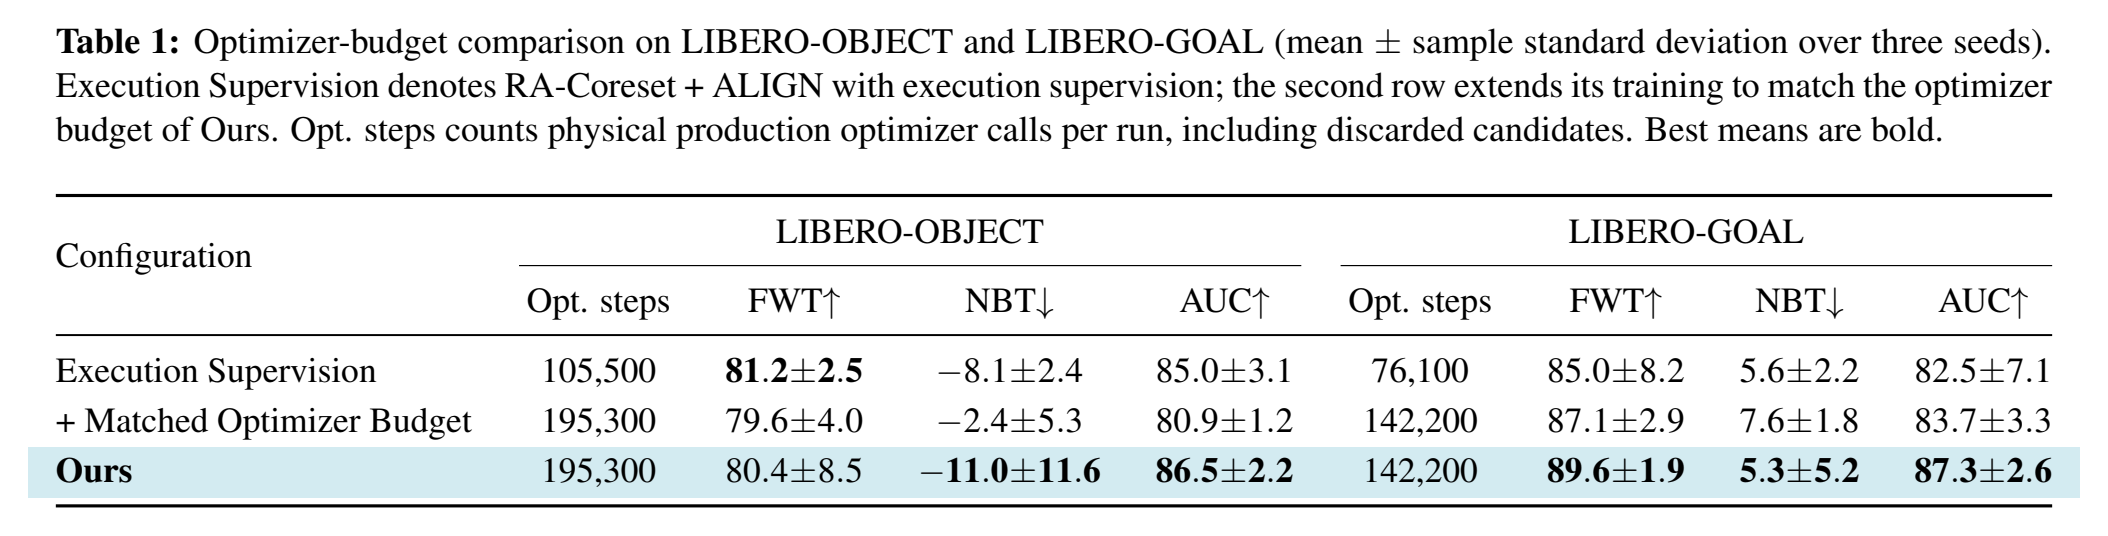
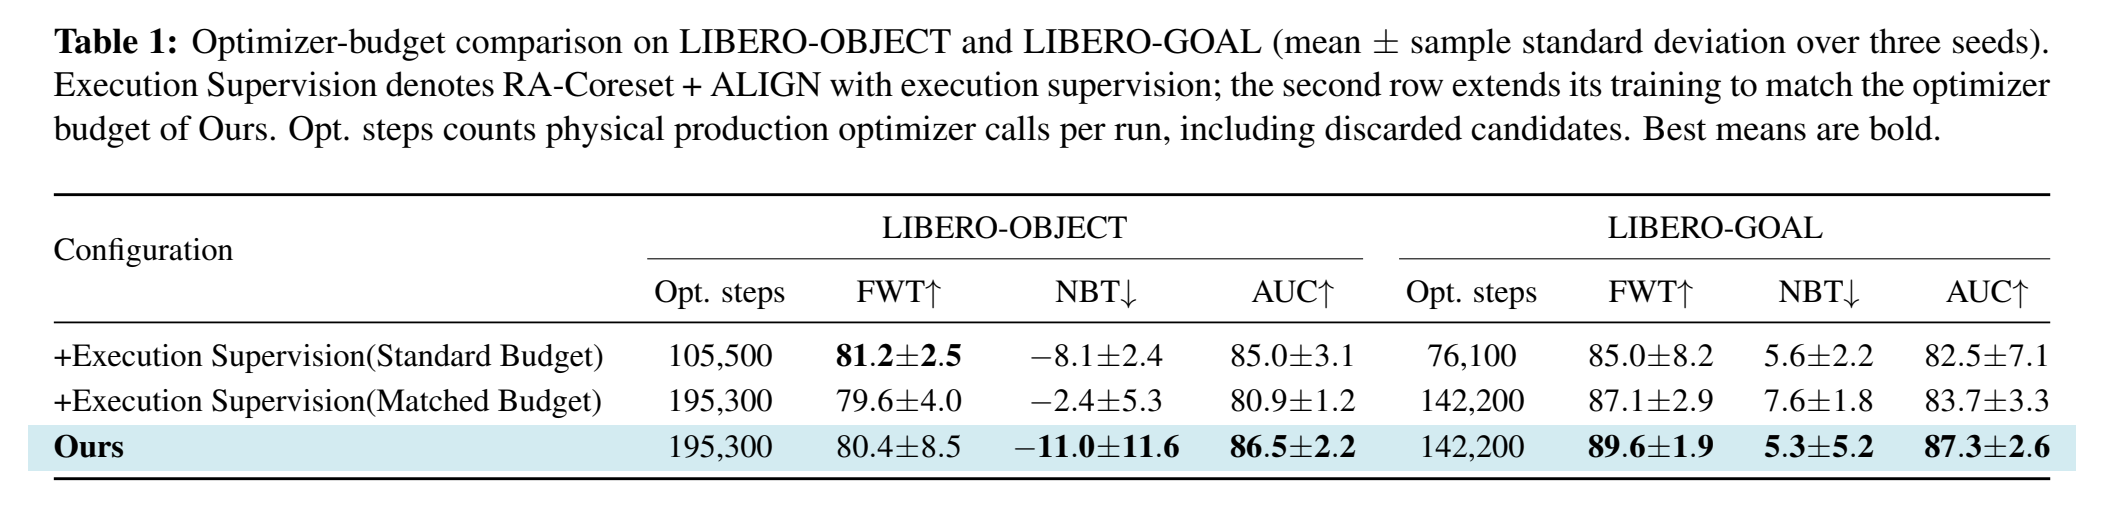
Add separate OBJECT and GOAL optimizer-budget comparison table

diff --git a/reports/optimizer_budget_table_20261107/optimizer_budget.tex b/reports/optimizer_budget_table_20261107/optimizer_budget.tex
@@ -31,8 +31,8 @@
     \cmidrule(lr){2-5}\cmidrule(l){6-9}
     & Opt. steps & FWT$\uparrow$ & NBT$\downarrow$ & AUC$\uparrow$ & Opt. steps & FWT$\uparrow$ & NBT$\downarrow$ & AUC$\uparrow$ \\
     \midrule
-    Execution Supervision & 105,500 & \bestresult{81.2}{2.5} & \result{-8.1}{2.4} & \result{85.0}{3.1} & 76,100 & \result{85.0}{8.2} & \result{5.6}{2.2} & \result{82.5}{7.1} \\
-    + Matched Optimizer Budget & 195,300 & \result{79.6}{4.0} & \result{-2.4}{5.3} & \result{80.9}{1.2} & 142,200 & \result{87.1}{2.9} & \result{7.6}{1.8} & \result{83.7}{3.3} \\
+    +Execution Supervision(Standard Budget) & 105,500 & \bestresult{81.2}{2.5} & \result{-8.1}{2.4} & \result{85.0}{3.1} & 76,100 & \result{85.0}{8.2} & \result{5.6}{2.2} & \result{82.5}{7.1} \\
+    +Execution Supervision(Matched Budget) & 195,300 & \result{79.6}{4.0} & \result{-2.4}{5.3} & \result{80.9}{1.2} & 142,200 & \result{87.1}{2.9} & \result{7.6}{1.8} & \result{83.7}{3.3} \\
     \rowcolor{oursblue}
     \textbf{Ours} & 195,300 & \result{80.4}{8.5} & \bestresult{-11.0}{11.6} & \bestresult{86.5}{2.2} & 142,200 & \bestresult{89.6}{1.9} & \bestresult{5.3}{5.2} & \bestresult{87.3}{2.6} \\
     \bottomrule

diff --git a/reports/optimizer_budget_table_20261107/table_optimizer_budget.tex b/reports/optimizer_budget_table_20261107/table_optimizer_budget.tex
@@ -14,8 +14,8 @@
     \cmidrule(lr){2-5}\cmidrule(l){6-9}
     & Opt. steps & FWT$\uparrow$ & NBT$\downarrow$ & AUC$\uparrow$ & Opt. steps & FWT$\uparrow$ & NBT$\downarrow$ & AUC$\uparrow$ \\
     \midrule
-    Execution Supervision & 105,500 & \bestresult{81.2}{2.5} & \result{-8.1}{2.4} & \result{85.0}{3.1} & 76,100 & \result{85.0}{8.2} & \result{5.6}{2.2} & \result{82.5}{7.1} \\
-    + Matched Optimizer Budget & 195,300 & \result{79.6}{4.0} & \result{-2.4}{5.3} & \result{80.9}{1.2} & 142,200 & \result{87.1}{2.9} & \result{7.6}{1.8} & \result{83.7}{3.3} \\
+    +Execution Supervision(Standard Budget) & 105,500 & \bestresult{81.2}{2.5} & \result{-8.1}{2.4} & \result{85.0}{3.1} & 76,100 & \result{85.0}{8.2} & \result{5.6}{2.2} & \result{82.5}{7.1} \\
+    +Execution Supervision(Matched Budget) & 195,300 & \result{79.6}{4.0} & \result{-2.4}{5.3} & \result{80.9}{1.2} & 142,200 & \result{87.1}{2.9} & \result{7.6}{1.8} & \result{83.7}{3.3} \\
     \rowcolor{oursblue}
     \textbf{Ours} & 195,300 & \result{80.4}{8.5} & \bestresult{-11.0}{11.6} & \bestresult{86.5}{2.2} & 142,200 & \bestresult{89.6}{1.9} & \bestresult{5.3}{5.2} & \bestresult{87.3}{2.6} \\
     \bottomrule

diff --git a/reports/optimizer_budget_table_20261107/verify_pdf.py b/reports/optimizer_budget_table_20261107/verify_pdf.py
@@ -20,8 +20,8 @@ source=(ROOT/'optimizer_budget.tex').read_text(encoding='utf8')
 assert r'\cite{' not in source and r'\begin{thebibliography}' not in source
 assert not re.search(r'^\s*(C|Q|S)\s*&', source, re.M)
 assert source.count('\\rowcolor{oursblue}')==1
-assert len(re.findall(r'^\s*(?:Execution Supervision|\+ Matched|\\textbf\{Ours\})',source,re.M))==3
-for method in ['Execution Supervision', 'Matched Optimizer Budget', 'Ours', '105,500', '195,300', '76,100', '142,200']:
+assert len(re.findall(r'^\s*(?:\+Execution Supervision\(|\\textbf\{Ours\})',source,re.M))==3
+for method in ['+Execution Supervision(Standard Budget)', '+Execution Supervision(Matched Budget)', 'Ours', '105,500', '195,300', '76,100', '142,200']:
     assert method in text, method
 log = (ROOT / 'optimizer_budget.log').read_text(encoding='utf8', errors='replace')
 assert not re.search(r'Overfull \\[hv]box|undefined references|Citation .* undefined|^!', log, re.M)

diff --git a/reports/optimizer_budget_table_20261107/build_table.py b/reports/optimizer_budget_table_20261107/build_table.py
@@ -17,8 +17,8 @@ a=json.loads(lineage.read_text(encoding='utf8'))
 assert d['status']=='PASS_LOCAL_METRIC_RECOMPUTATION'
 assert a['status']=='PASS_LOCAL_LINEAGE_AND_PROTOCOL_AUDIT'
 assert a['source_bindings']['execution/20261101_ablation_summary/DATA.json']['sha256']==sha(source)
-spec=[('current','C_normal','Execution Supervision'),
-      ('current','C_equal_budget','+ Matched Optimizer Budget'),('current','S_latest','Ours')]
+spec=[('current','C_normal','+Execution Supervision(Standard Budget)'),
+      ('current','C_equal_budget','+Execution Supervision(Matched Budget)'),('current','S_latest','Ours')]
 budget_root=E/'20261030_equal_optimizer_budget_cs_two_suites'
 acceptance=budget_root/'ACCEPTANCE.json'
 comparison=budget_root/'final_readonly_20261031_065009/PRIMARY_S_COMPARISON.json'

diff --git a/reports/optimizer_budget_table_20261107/README.md b/reports/optimizer_budget_table_20261107/README.md
@@ -19,8 +19,8 @@ Execution Supervision is RA-Coreset + ALIGN with execution supervision (the ordi
 
 | Configuration | Epochs per stage (Tasks 6/7/8/9) | OBJECT optimizer calls/run | GOAL optimizer calls/run |
 |---|---|---:|---:|
-| Execution Supervision | 100/100/100/100 | 105500 | 76100 |
-| + Matched Optimizer Budget | 100/200/200/200 | 195300 | 142200 |
+| +Execution Supervision(Standard Budget) | 100/100/100/100 | 105500 | 76100 |
+| +Execution Supervision(Matched Budget) | 100/200/200/200 | 195300 | 142200 |
 | Ours | 100/100/100/100 | 195300 | 142200 |
 
 Counts are physical production optimizer calls, including discarded candidates, excluding separately accounted admission diagnostics. Stage-wise equality for matched baseline versus Ours is checked for all six suite/seed pairs against accepted comparison evidence. The baseline learning-rate schedule is extended to its actual update horizon with the same warmup. Ordinary-budget counts follow the accepted 100-epoch stage budgets. This matches optimizer calls, not FLOPs, wall-clock time or training interactions: Ours has 40 historical training collection episodes per run and the execution-supervision baselines have none.
